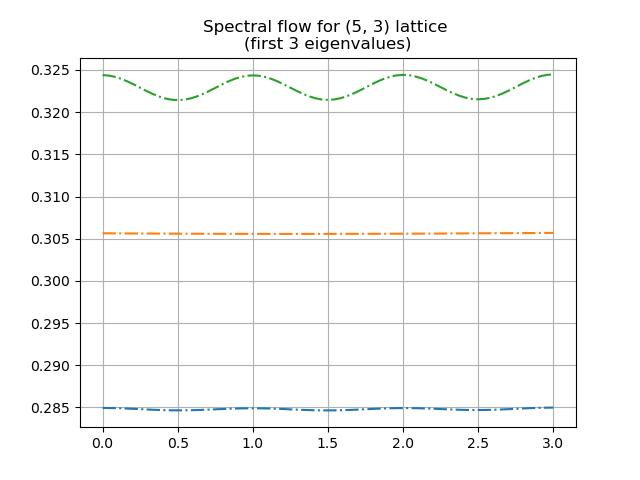
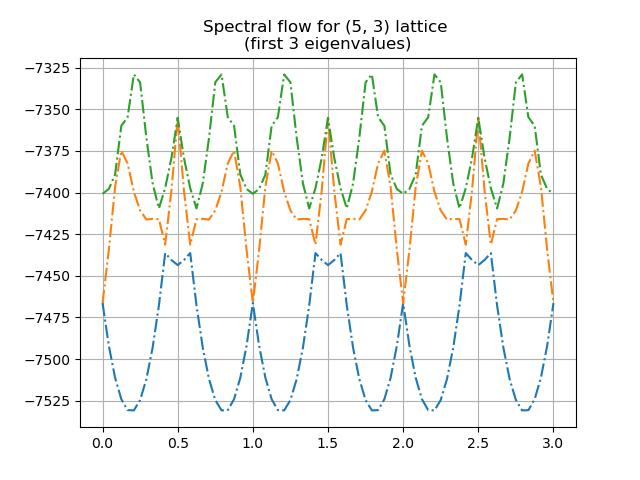
.

diff --git a/spectral_flow_test_analytic.py b/spectral_flow_test_analytic.py
@@ -26,7 +26,7 @@ def Ek(kx, ky):
     h2 = np.array([[h11, np.conjugate(h12)], [h12, -h11]])
     eig_val = np.linalg.eigvalsh(h2)
     assert(np.abs(abs(eig_val[0]) - abs(eig_val[1])) < 1e-8)
-    return 1e3 * n -abs(eig_val[0])
+    return 1e3 * (1 -abs(eig_val[0]))
 
 def many_body_E(phi_x = 0, phi_y = 0, k = 7):
     Kx = np.linspace(0, 2 * np.pi,num=Nx,endpoint=False)
@@ -37,6 +37,7 @@ def many_body_E(phi_x = 0, phi_y = 0, k = 7):
     for x,kx in enumerate(Kx):
         for y,ky in enumerate(Ky):
             E[x,y] = Ek(kx + phi_x / Nx, ky + phi_y / Ny) + i * 1e-8
+            i += 1
 
     E = np.reshape(E,(Nx * Ny))
     E = np.sort(E)
@@ -47,14 +48,14 @@ def many_body_E(phi_x = 0, phi_y = 0, k = 7):
     many_body_E_list = []
     for perm in perms:
         many_body_E_list.append(np.sum(E[np.array(perm)]))
-    sorted(many_body_E_list)
+    many_body_E_list = sorted(many_body_E_list)
     return many_body_E_list[:k]
 
 phi_list = np.array(range(0,72 + 1, step)) / 72 * 3 * (2 * np.pi)
 
 eigenvalues_list = []
 for phi_x in phi_list:
-    eigenvalues_list.append(many_body_E(phi_x = phi_x, phi_y = 0, k = 7))
+    eigenvalues_list.append(many_body_E(phi_x = 0, phi_y = phi_x, k = 7))
 
 eigenvalues_list = np.array(eigenvalues_list) 
 plt.figure()
@@ -81,30 +82,30 @@ plt.title(f"Spectral flow without interaction for ({Nx,Ny}) lattice \n(first 3 e
 # plt.savefig(f"./results/spectral_flow/interaction_shift/Nx-{Nx}_Ny-{Ny}/interaction-{interaction_strength}_k=3.jpg")
 
 
-eigenvalues_list = []
-for phi_y in phi_list:
-    eigenvalues_list.append(many_body_E(phi_x = 0, phi_y = phi_y, k = 7))
+# eigenvalues_list = []
+# for phi_y in phi_list:
+#     eigenvalues_list.append(many_body_E(phi_x = 0, phi_y = phi_y, k = 7))
 
-eigenvalues_list = np.array(eigenvalues_list) 
-plt.figure()
-plt.plot(phi_list,eigenvalues_list[:,0], "-.")
-plt.plot(phi_list,eigenvalues_list[:,1], "-.")
-plt.plot(phi_list,eigenvalues_list[:,2], "-.")
-plt.plot(phi_list,eigenvalues_list[:,3], "-.")
-plt.plot(phi_list,eigenvalues_list[:,4], "-.")
-plt.plot(phi_list,eigenvalues_list[:,5], "-.")
-plt.plot(phi_list,eigenvalues_list[:,6], "-.")
-plt.grid()
-plt.xlabel("phi_y")
-plt.title(f"Spectral flow without interaction for ({Nx,Ny}) lattice \n(first 7 eigenvalues shifted by the lowest value)")
-# plt.savefig(f"./results/spectral_flow/interaction_shift/Nx-{Nx}_Ny-{Ny}/interaction-{interaction_strength}_k=7.jpg")
+# eigenvalues_list = np.array(eigenvalues_list) 
+# plt.figure()
+# plt.plot(phi_list,eigenvalues_list[:,0], "-.")
+# plt.plot(phi_list,eigenvalues_list[:,1], "-.")
+# plt.plot(phi_list,eigenvalues_list[:,2], "-.")
+# plt.plot(phi_list,eigenvalues_list[:,3], "-.")
+# plt.plot(phi_list,eigenvalues_list[:,4], "-.")
+# plt.plot(phi_list,eigenvalues_list[:,5], "-.")
+# plt.plot(phi_list,eigenvalues_list[:,6], "-.")
+# plt.grid()
+# plt.xlabel("phi_y")
+# plt.title(f"Spectral flow without interaction for ({Nx,Ny}) lattice \n(first 7 eigenvalues shifted by the lowest value)")
+# # plt.savefig(f"./results/spectral_flow/interaction_shift/Nx-{Nx}_Ny-{Ny}/interaction-{interaction_strength}_k=7.jpg")
 
 
-plt.figure()
-plt.plot(phi_list,eigenvalues_list[:,0], "-.")
-plt.plot(phi_list,eigenvalues_list[:,1], "-.")
-plt.plot(phi_list,eigenvalues_list[:,2], "-.")
-plt.grid()
-plt.xlabel("phi_y")
-plt.title(f"Spectral flow without interaction for ({Nx,Ny}) lattice \n(first 3 eigenvalues shifted by the lowest value)")
-# plt.savefig(f"./results/spectral_flow/interaction_shift/Nx-{Nx}_Ny-{Ny}/interaction-{interaction_strength}_k=3.jpg")
+# plt.figure()
+# plt.plot(phi_list,eigenvalues_list[:,0], "-.")
+# plt.plot(phi_list,eigenvalues_list[:,1], "-.")
+# plt.plot(phi_list,eigenvalues_list[:,2], "-.")
+# plt.grid()
+# plt.xlabel("phi_y")
+# plt.title(f"Spectral flow without interaction for ({Nx,Ny}) lattice \n(first 3 eigenvalues shifted by the lowest value)")
+# # plt.savefig(f"./results/spectral_flow/interaction_shift/Nx-{Nx}_Ny-{Ny}/interaction-{interaction_strength}_k=3.jpg")

diff --git a/build_matrix.py b/build_matrix.py
@@ -92,7 +92,7 @@ if __name__ == "__main__":
     if build_H:
         print("Building H")
         if not (phi_y is None):
-            non_interacting_H = build_non_interacting_H(Nx, Ny, n=n,phase_shift_y= 0.625 * 2 * np.pi ,phase_shift_x= 2 * np.pi * phi_y, multi_process=multi_process,max_workers=max_workers,multiprocess_func=multiprocess_func)
+            non_interacting_H = build_non_interacting_H(Nx, Ny, n=n,phase_shift_x= 0 ,phase_shift_y= 2 * np.pi * phi_y, multi_process=multi_process,max_workers=max_workers,multiprocess_func=multiprocess_func)
             os.makedirs(save_path, exist_ok=True)
             print("Saving H")
             sparse.save_npz(save_path + str(f'/H_Nx-{Nx}_Ny-{Ny}_{args.name}.npz'), non_interacting_H)
